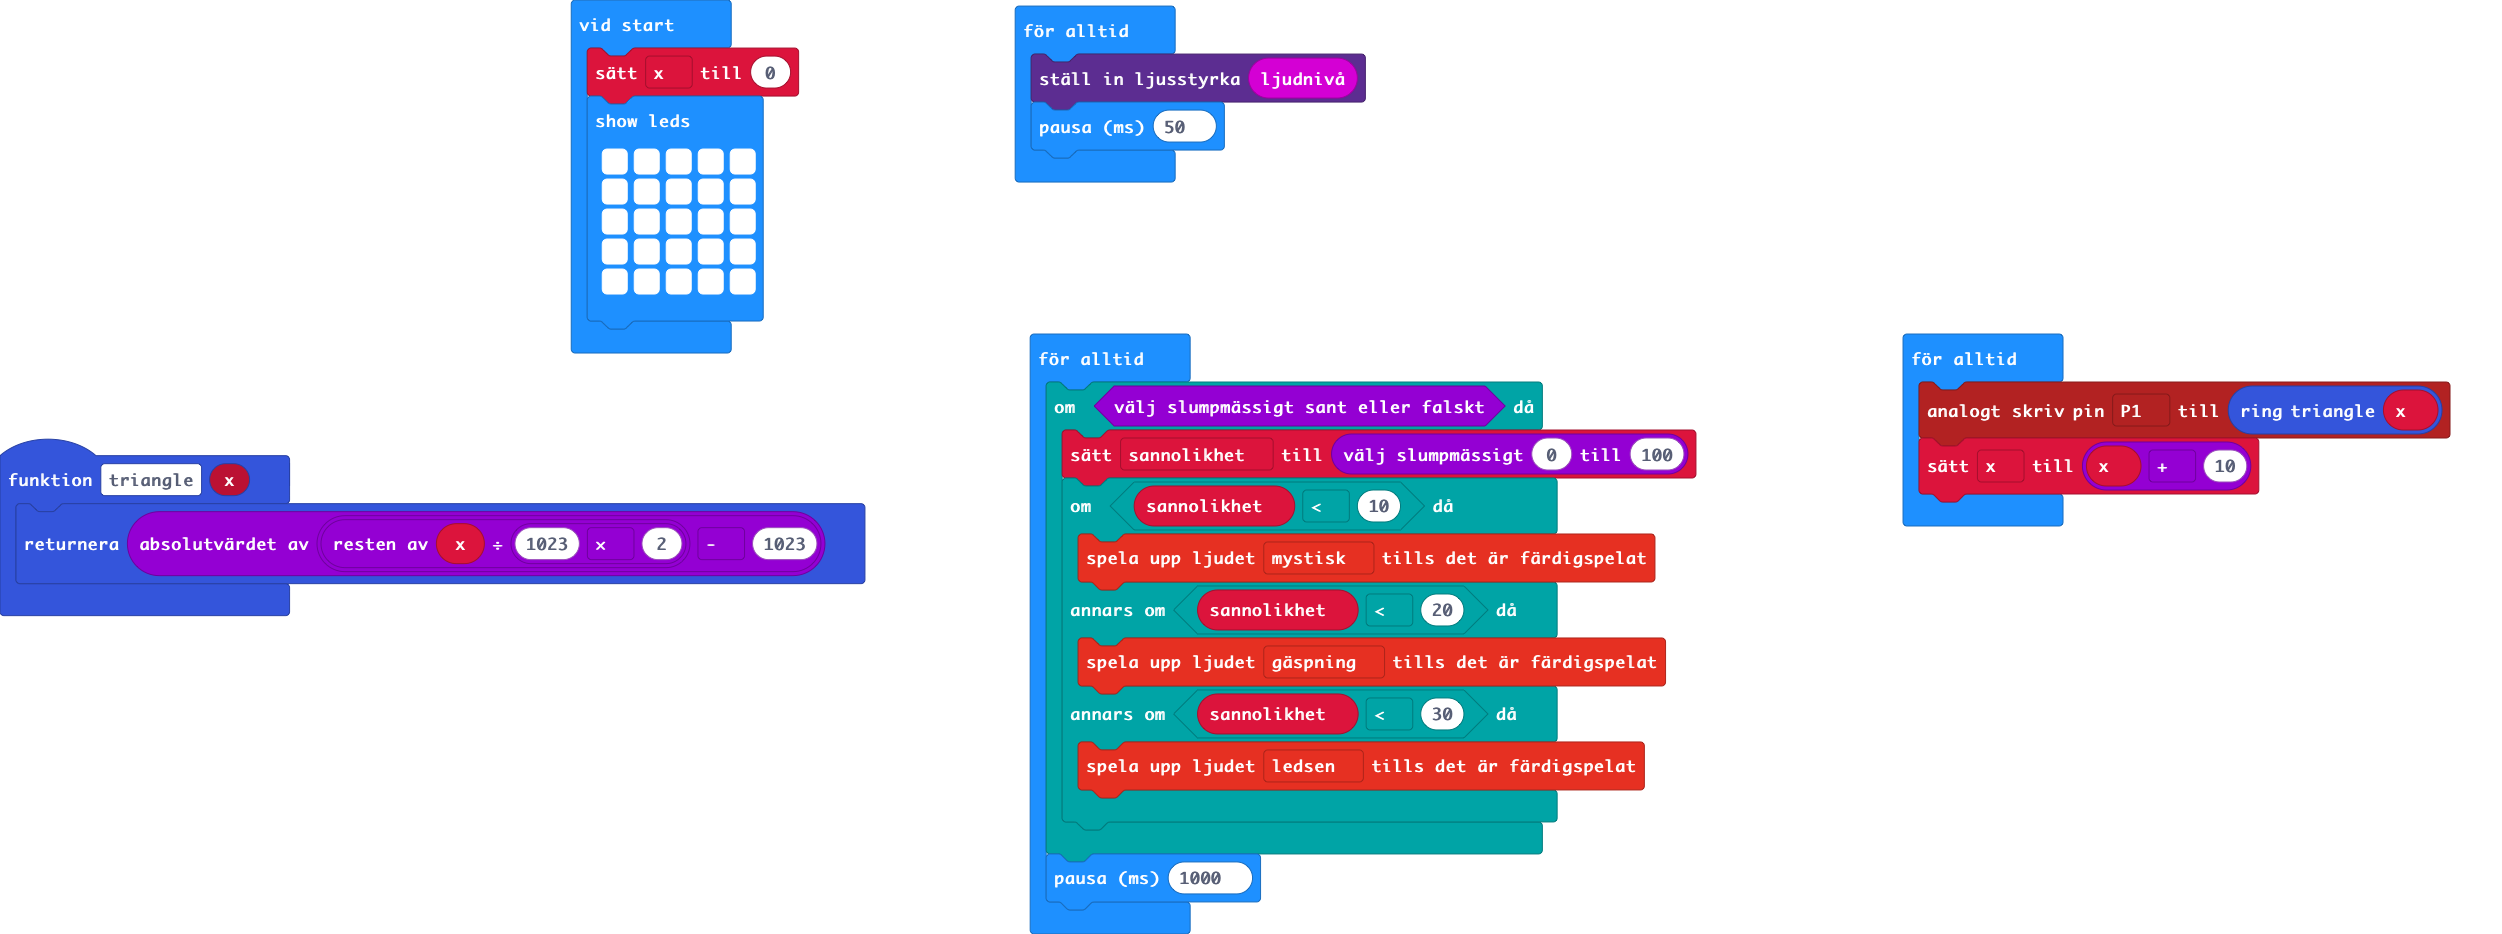
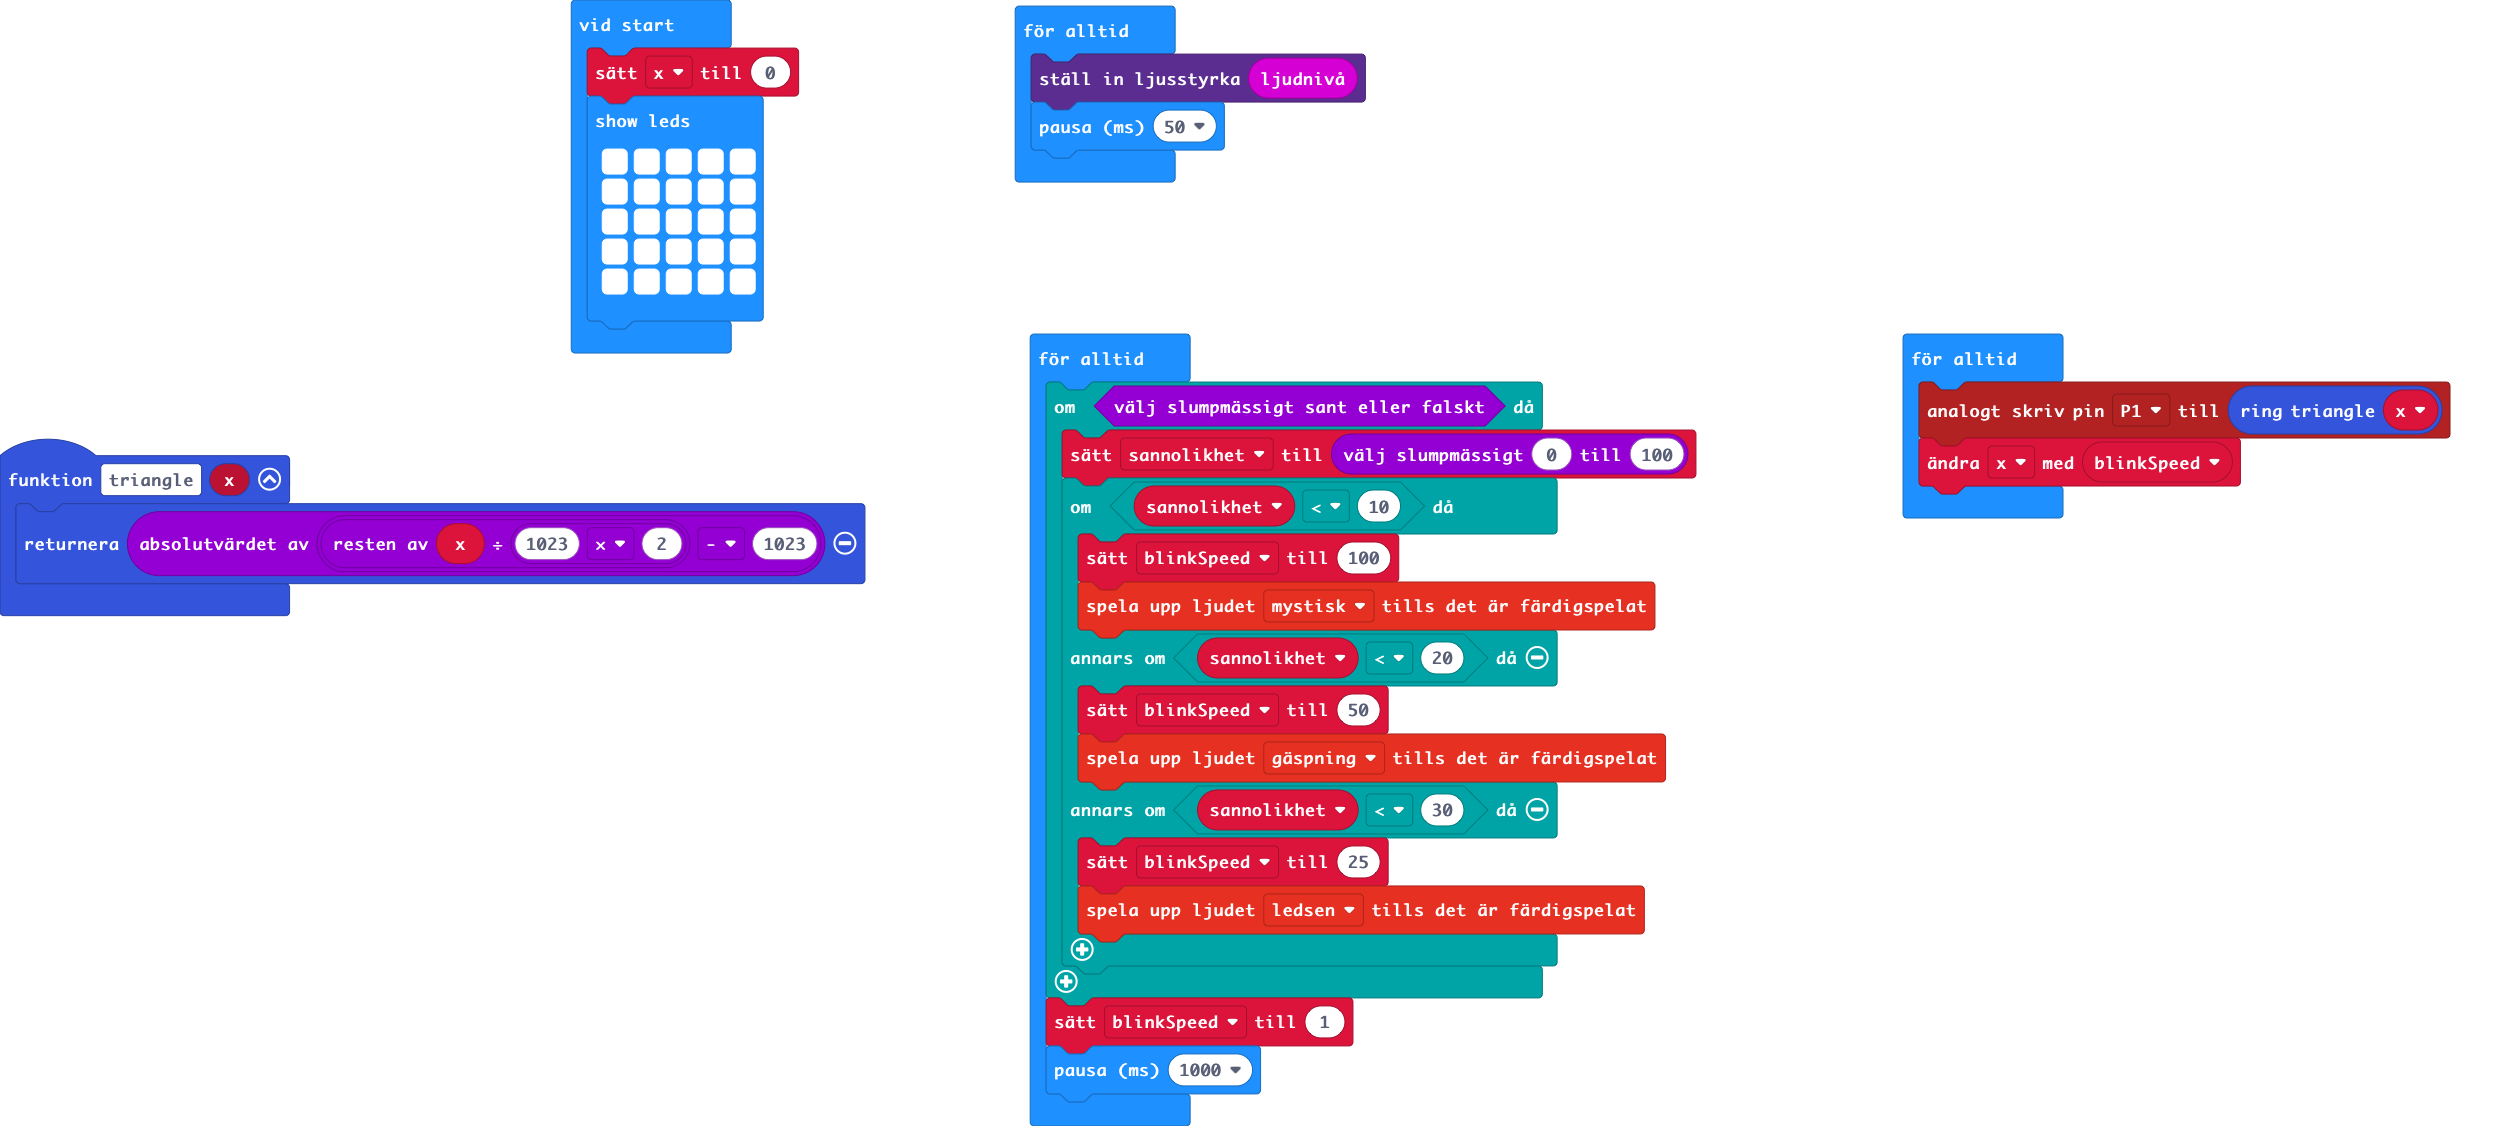
Uppdatera main.blocks, main.ts

diff --git a/main.ts b/main.ts
@@ -1,6 +1,7 @@
 function triangle (x: number) {
     return Math.abs(x % (1023 * 2) - 1023)
 }
+let blinkSpeed = 0
 let sannolikhet = 0
 let x = 0
 basic.showLeds(`
@@ -18,16 +19,20 @@ basic.forever(function () {
     if (Math.randomBoolean()) {
         sannolikhet = randint(0, 100)
         if (sannolikhet < 10) {
+            blinkSpeed = 100
             soundExpression.mysterious.playUntilDone()
         } else if (sannolikhet < 20) {
+            blinkSpeed = 50
             soundExpression.yawn.playUntilDone()
         } else if (sannolikhet < 30) {
+            blinkSpeed = 25
             soundExpression.sad.playUntilDone()
         }
     }
+    blinkSpeed = 1
     basic.pause(1000)
 })
 basic.forever(function () {
     pins.analogWritePin(AnalogPin.P1, triangle(x))
-    x = x + 10
+    x += blinkSpeed
 })
